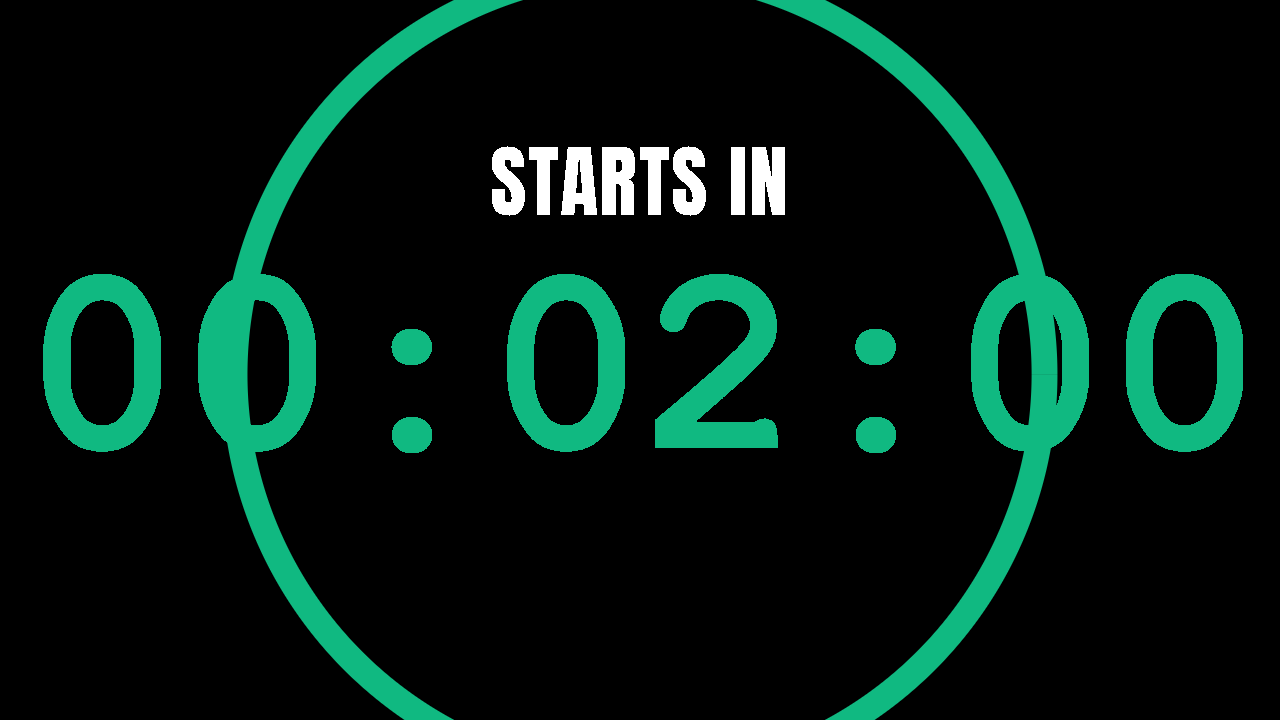
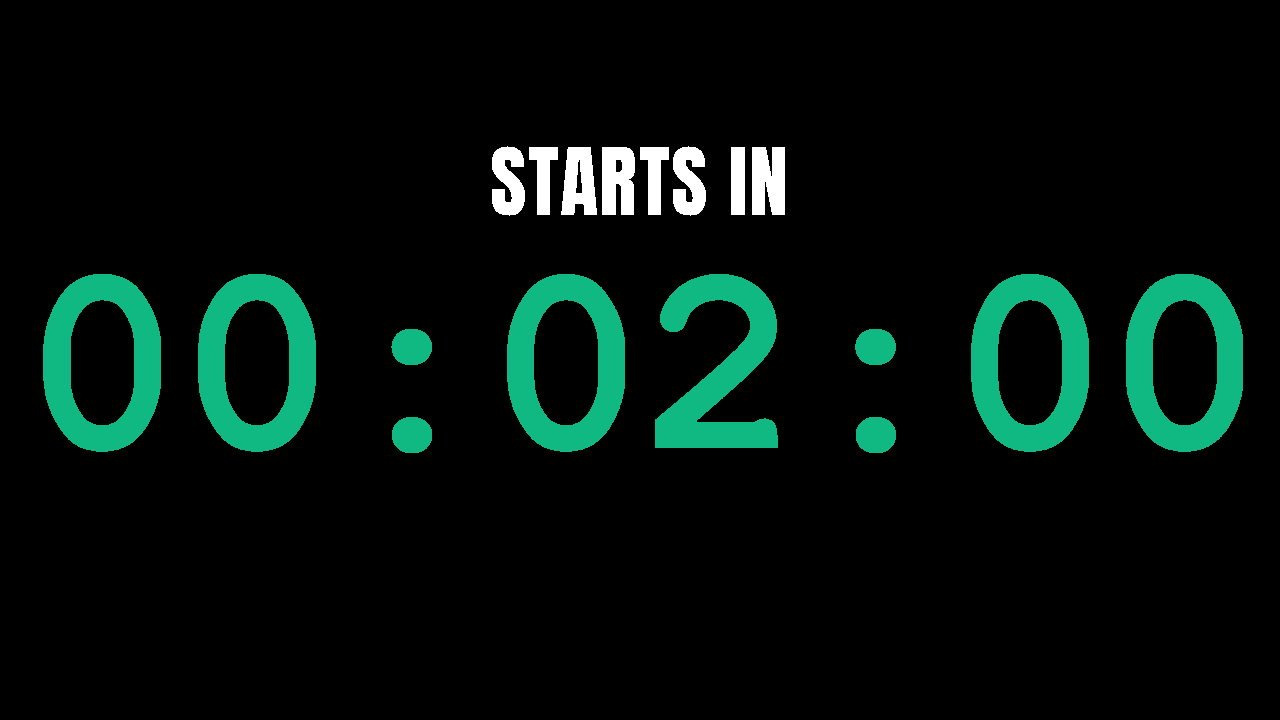
v1.8.1: remove progress ring entirely (overlapped the layout, not aligned with the project vision)

diff --git a/public/presenter.html b/public/presenter.html
@@ -97,19 +97,6 @@
             opacity: 0.95;
             z-index: 5;
         }
-        .ring {
-            position: absolute;
-            left: 50%;
-            top: 50%;
-            transform: translate(-50%, -50%);
-            pointer-events: none;
-            z-index: 1;
-        }
-        .ring circle {
-            fill: none;
-            stroke-width: 3;
-            transition: stroke-dashoffset 0.5s linear, stroke 0.3s;
-        }
         .conn-banner {
             position: fixed;
             top: 12px; right: 12px;
@@ -426,20 +413,6 @@
                     timerWrap.id = 'timer-wrap';
                     stack.appendChild(timerWrap);
 
-                    if ((s.settings && s.settings.ringEnabled) && s.mode !== 'countup') {
-                        var ring = document.createElementNS('http://www.w3.org/2000/svg', 'svg');
-                        ring.setAttribute('class', 'ring');
-                        ring.setAttribute('id', 'ring');
-                        ring.setAttribute('viewBox', '0 0 100 100');
-                        var circ = document.createElementNS('http://www.w3.org/2000/svg', 'circle');
-                        circ.setAttribute('cx', '50');
-                        circ.setAttribute('cy', '50');
-                        circ.setAttribute('r', '47');
-                        circ.setAttribute('stroke-dasharray', '295.3');
-                        ring.appendChild(circ);
-                        timerWrap.appendChild(ring);
-                    }
-
                     var timerDiv = document.createElement('div');
                     timerDiv.className = 'timer';
                     timerDiv.id = 'timer';
@@ -505,31 +478,6 @@
                 } else {
                     cap.textContent = '';
                     cap.style.display = 'none';
-                }
-            }
-
-            var ring = document.getElementById('ring');
-            if (ring) {
-                var el2 = getTimerEl();
-                if (el2) {
-                    // Size the ring around the actual timer text (resolution independent)
-                    var rect = el2.getBoundingClientRect();
-                    var ringSize = Math.max(rect.height * 3.2, 60);
-                    ring.style.width = ringSize + 'px';
-                    ring.style.height = ringSize + 'px';
-                }
-                var pct = 1;
-                if (s.mode !== 'countup' && s.initialTime > 0) {
-                    pct = Math.max(0, Math.min(1, s.activeTime / s.initialTime));
-                }
-                var circ = ring.querySelector('circle');
-                if (circ) {
-                    circ.setAttribute('stroke-dashoffset', String(295.3 * (1 - pct)));
-                    var ringColor = cfg.colorNormal || '#10b981';
-                    if (s.alertLevel === 'expired') ringColor = cfg.colorExpired || '#ef4444';
-                    else if (s.alertLevel === 'danger') ringColor = cfg.colorDanger || '#f97316';
-                    else if (s.alertLevel === 'warning') ringColor = cfg.colorWarning || '#f59e0b';
-                    circ.setAttribute('stroke', ringColor);
                 }
             }
 

diff --git a/public/index.html b/public/index.html
@@ -656,13 +656,6 @@
             <div class="setting-group">
                 <h3>Display</h3>
                 <div class="setting-row">
-                    <span class="setting-label" data-i18n="ring_label">Progress ring on display</span>
-                    <label class="toggle-switch">
-                        <input type="checkbox" id="set-ring" onchange="autoSaveSettings()">
-                        <span class="toggle-slider"></span>
-                    </label>
-                </div>
-                <div class="setting-row">
                     <span class="setting-label" data-i18n="auto_presenter_label">Open external display on app start</span>
                     <label class="toggle-switch">
                         <input type="checkbox" id="set-auto-presenter" onchange="autoSaveSettings()">
@@ -914,7 +907,7 @@
     </div>
 
     <footer class="app-footer">
-        <span id="footer-text">Copyright © Smart Timer Pro v1.8.0 - All Rights Reserved - Nelson Teixeira @ Smartchoice 2026</span>
+        <span id="footer-text">Copyright © Smart Timer Pro v1.8.1 - All Rights Reserved - Nelson Teixeira @ Smartchoice 2026</span>
         <span id="shortcuts-hint" data-i18n="shortcuts_hint">Shortcuts: Space = GO/PAUSE · R = RESET · M = Message · Ctrl+Z = Undo</span>
     </footer>
 
@@ -1006,7 +999,6 @@
                 import_profile: 'IMPORT PROFILE',
                 language_label: 'Language',
                 prestart_label: 'Prestart caption',
-                ring_label: 'Progress ring on display',
                 webhook_label: 'Webhook URL (POST on events)',
                 osc_label: 'OSC output',
                 osc_host: 'OSC host',
@@ -1092,7 +1084,6 @@
                 import_profile: 'IMPORTAR PERFIL',
                 language_label: 'Idioma',
                 prestart_label: 'Legenda de pré-evento',
-                ring_label: 'Anel de progresso no ecrã',
                 webhook_label: 'URL Webhook (POST nos eventos)',
                 osc_label: 'Saída OSC',
                 osc_host: 'Host OSC',
@@ -1313,7 +1304,6 @@
                     capFontEl.value = fontToDropdown(capFont) === 'custom' ? "'Anton', sans-serif" : capFont;
                 }
             }
-            document.getElementById('set-ring').checked = s.ringEnabled === true;
             document.getElementById('set-auto-presenter').checked = s.autoOpenPresenter === true;
             document.getElementById('set-color-theme').value = s.colorTheme || 'default';
             document.getElementById('set-webhook').value = s.webhookUrl || '';
@@ -1382,7 +1372,6 @@
                     if (v === 'same') return getSelectedFont();
                     return v;
                 })(),
-                ringEnabled: document.getElementById('set-ring').checked,
                 webhookUrl: document.getElementById('set-webhook').value.trim(),
                 oscEnabled: document.getElementById('set-osc-enabled').checked,
                 oscHost: document.getElementById('set-osc-host').value.trim(),

diff --git a/scripts/capture-screenshots.js b/scripts/capture-screenshots.js
@@ -61,7 +61,6 @@ app.whenReady().then(async () => {
             warningThreshold: 120,
             dangerThreshold: 30,
             prestartLabel: 'STARTS IN',
-            ringEnabled: true,
         }),
     });
 
@@ -113,7 +112,7 @@ app.whenReady().then(async () => {
     await api('/api/mode?set=countdown');
     await capture(BASE + '/', 'screenshot_settings.png', 1280, 850, 'openSettings(); true', 1500);
 
-    // --- 4. Presenter countdown with ring (green) ---
+    // --- 4. Presenter countdown (green) ---
     console.log('step 4');
     await api('/api/reset?sec=300');
     await api('/api/mode?set=countdown');

diff --git a/server.js b/server.js
@@ -65,7 +65,6 @@ let settings = {
     apiPin: '',
     language: 'en',
     prestartLabel: 'STARTS IN',
-    ringEnabled: false,
     webhookUrl: '',
     oscEnabled: false,
     oscHost: '',

diff --git a/docs/OPERATOR_GUIDE.md b/docs/OPERATOR_GUIDE.md
@@ -45,8 +45,7 @@ e a **piscar** quando expira.
 ## 5. Opcionais
 
 - **Logótipo do evento**: UPLOAD LOGO (modo "Show Logo/Grid" mostra-o)
-- **Pré-evento**: modo **Prestart** mostra "STARTS IN 05:00"
-- **Anel de progresso**: Settings > Prestart & Ring
+- **Pré-evento**: cartão **Prestart / Pré-evento** mostra "STARTS IN 05:00"
 - **Stream Deck**: instalar o módulo Companion (ver `docs/COMPANION.md`)
 - **Controlo remoto**: abrir `http://<ip-do-pc>:3000/remote.html` no telemóvel
   (ou carregar no botão **REMOTE** na app e copiar o endereço)

diff --git a/README.md b/README.md
@@ -29,8 +29,8 @@ Full settings modal: fonts, colors, thresholds, audio slots, PIN, shortcuts, pro
 
 ![Settings](assets/screenshot_settings.png)
 
-### Presenter - Countdown with Progress Ring
-External display in countdown mode with the progress ring around the timer.
+### Presenter - Countdown
+External display in countdown mode.
 
 ![Presenter Countdown](assets/screenshot_presenter.png)
 

diff --git a/docs/CHANGELOG.md b/docs/CHANGELOG.md
@@ -1,5 +1,10 @@
 # Changelog
 
+## [1.8.1] - 2026-09-15
+
+### Removed
+- **Progress ring**: removed entirely (setting, rendering and docs) — it overlapped the layout and did not fit the project vision
+
 ## [1.8.0] - 2026-09-15
 
 ### New Features
